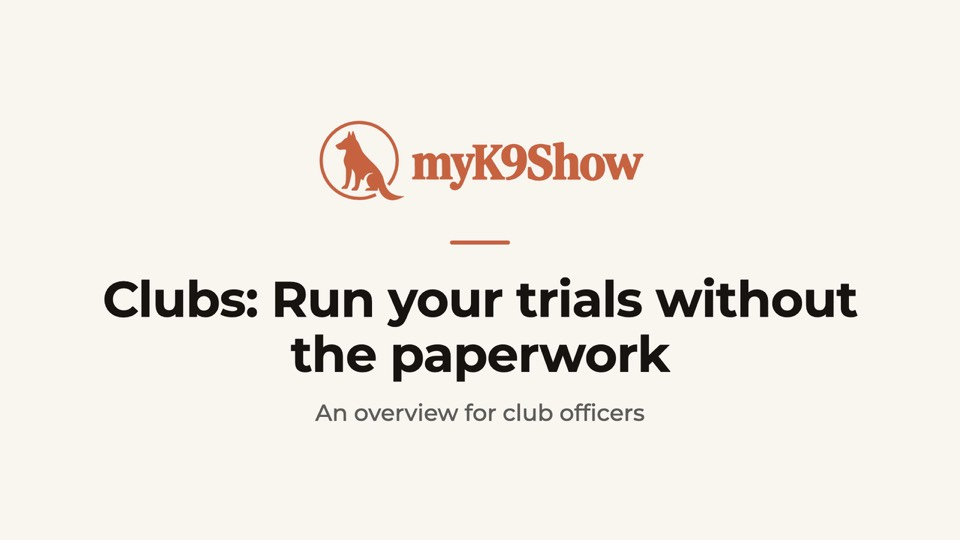
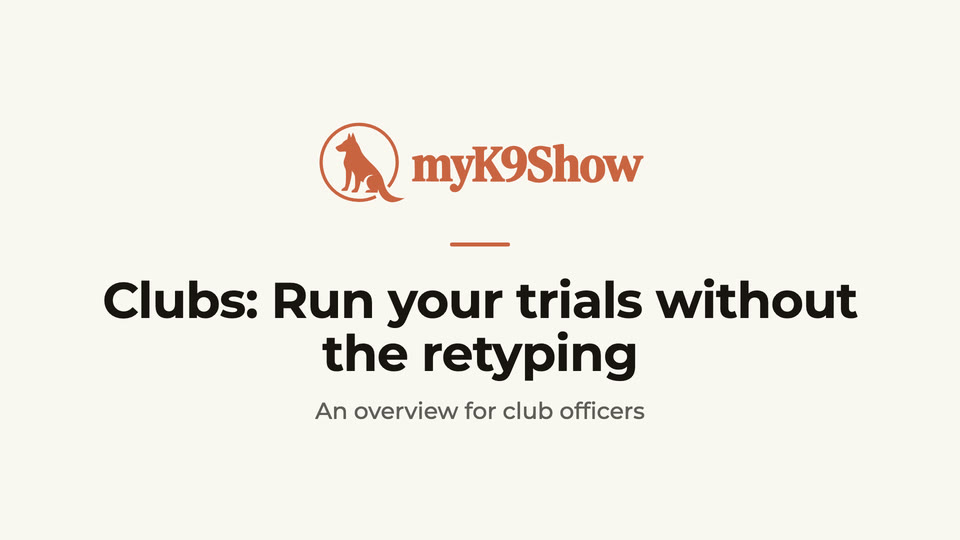
fix(landing): the club overview promises less retyping, not less paperwork (MYK9-2517, MYK9-2510)
- The owner decided on 2026-11-27 that the site must not imply a show is
  paperless: the gate's printed run sheet and the judge's scoresheets stay.
  The heading, the player's title and the video's still picture now read
  "Run your trials without the retyping", matching the trailer's end card.
- The still picture was the video's own title card, so it carried the old
  line in large type right beside the new heading. Redrawn with the same
  title-card tool at the same size.
- MYK9-2510: the comment no longer calls the video unlisted. It is public.
- The video itself still opens with the old line until it is remade.

diff --git a/apps/myk9show/src/components/landing/lifecycle/ClubOverviewVideo.tsx b/apps/myk9show/src/components/landing/lifecycle/ClubOverviewVideo.tsx
@@ -1,10 +1,12 @@
 import { useEffect, useRef, useState } from 'react';
 import './clubOverviewVideo.css';
 
-/** The unlisted "Run your trials without the paperwork" overview (MYK9-2374). */
+/** The club overview video, public on YouTube (MYK9-2374). */
 export const CLUB_OVERVIEW_VIDEO_ID = 'bAQBMxBGSkw';
-export const CLUB_OVERVIEW_VIDEO_TITLE =
-  'myK9Show for clubs: run your trials without the paperwork';
+// INTENT: "retyping", never "paperwork" or "paperless" (owner, 2026-11-27, MYK9-2517). A show
+// run on myK9Show still has paper: the gate's printed run sheet, and the judge's scoresheets,
+// which a judge keeps for a year. What the app removes is typing entries and scores in again.
+export const CLUB_OVERVIEW_VIDEO_TITLE = 'myK9Show for clubs: run your trials without the retyping';
 const WATCH_URL = `https://youtu.be/${CLUB_OVERVIEW_VIDEO_ID}`;
 // Privacy-enhanced domain, captions on, no related videos; it starts as soon as it is loaded
 // because the visitor has just pressed play.
@@ -25,7 +27,7 @@ export function ClubOverviewVideo() {
         <div className="lc-video-copy">
           <span className="l-eyebrow">For clubs</span>
           <h2 id="club-video-title" className="l-h2">
-            Run your trials without the paperwork.
+            Run your trials without the retyping.
           </h2>
           <p>
             A 2 minute 28 second tour: add your club, appoint your secretary, take entries and

diff --git a/apps/myk9show/src/components/landing/lifecycle/__tests__/ClubOverviewVideo.test.tsx b/apps/myk9show/src/components/landing/lifecycle/__tests__/ClubOverviewVideo.test.tsx
@@ -4,6 +4,21 @@ import userEvent from '@testing-library/user-event';
 import { ClubOverviewVideo } from '../ClubOverviewVideo';
 
 describe('ClubOverviewVideo', () => {
+  // MYK9-2517 (owner, 2026-11-27): a show is not paperless (the gate's run sheet and the judge's
+  // scoresheets stay), so the page promises less retyping, never less paper.
+  it('promises less retyping, and does not say the paperwork goes away', () => {
+    const { container } = render(<ClubOverviewVideo />);
+    expect(
+      screen.getByRole('heading', { level: 2, name: 'Run your trials without the retyping.' })
+    ).toBeInTheDocument();
+    expect(
+      screen.getByRole('button', {
+        name: 'Play the video: myK9Show for clubs: run your trials without the retyping',
+      })
+    ).toBeInTheDocument();
+    expect(container.textContent).not.toMatch(/paperwork|paperless/i);
+  });
+
   it('loads nothing from YouTube until play is pressed', () => {
     const { container } = render(<ClubOverviewVideo />);
     expect(container.querySelector('iframe')).toBeNull();
